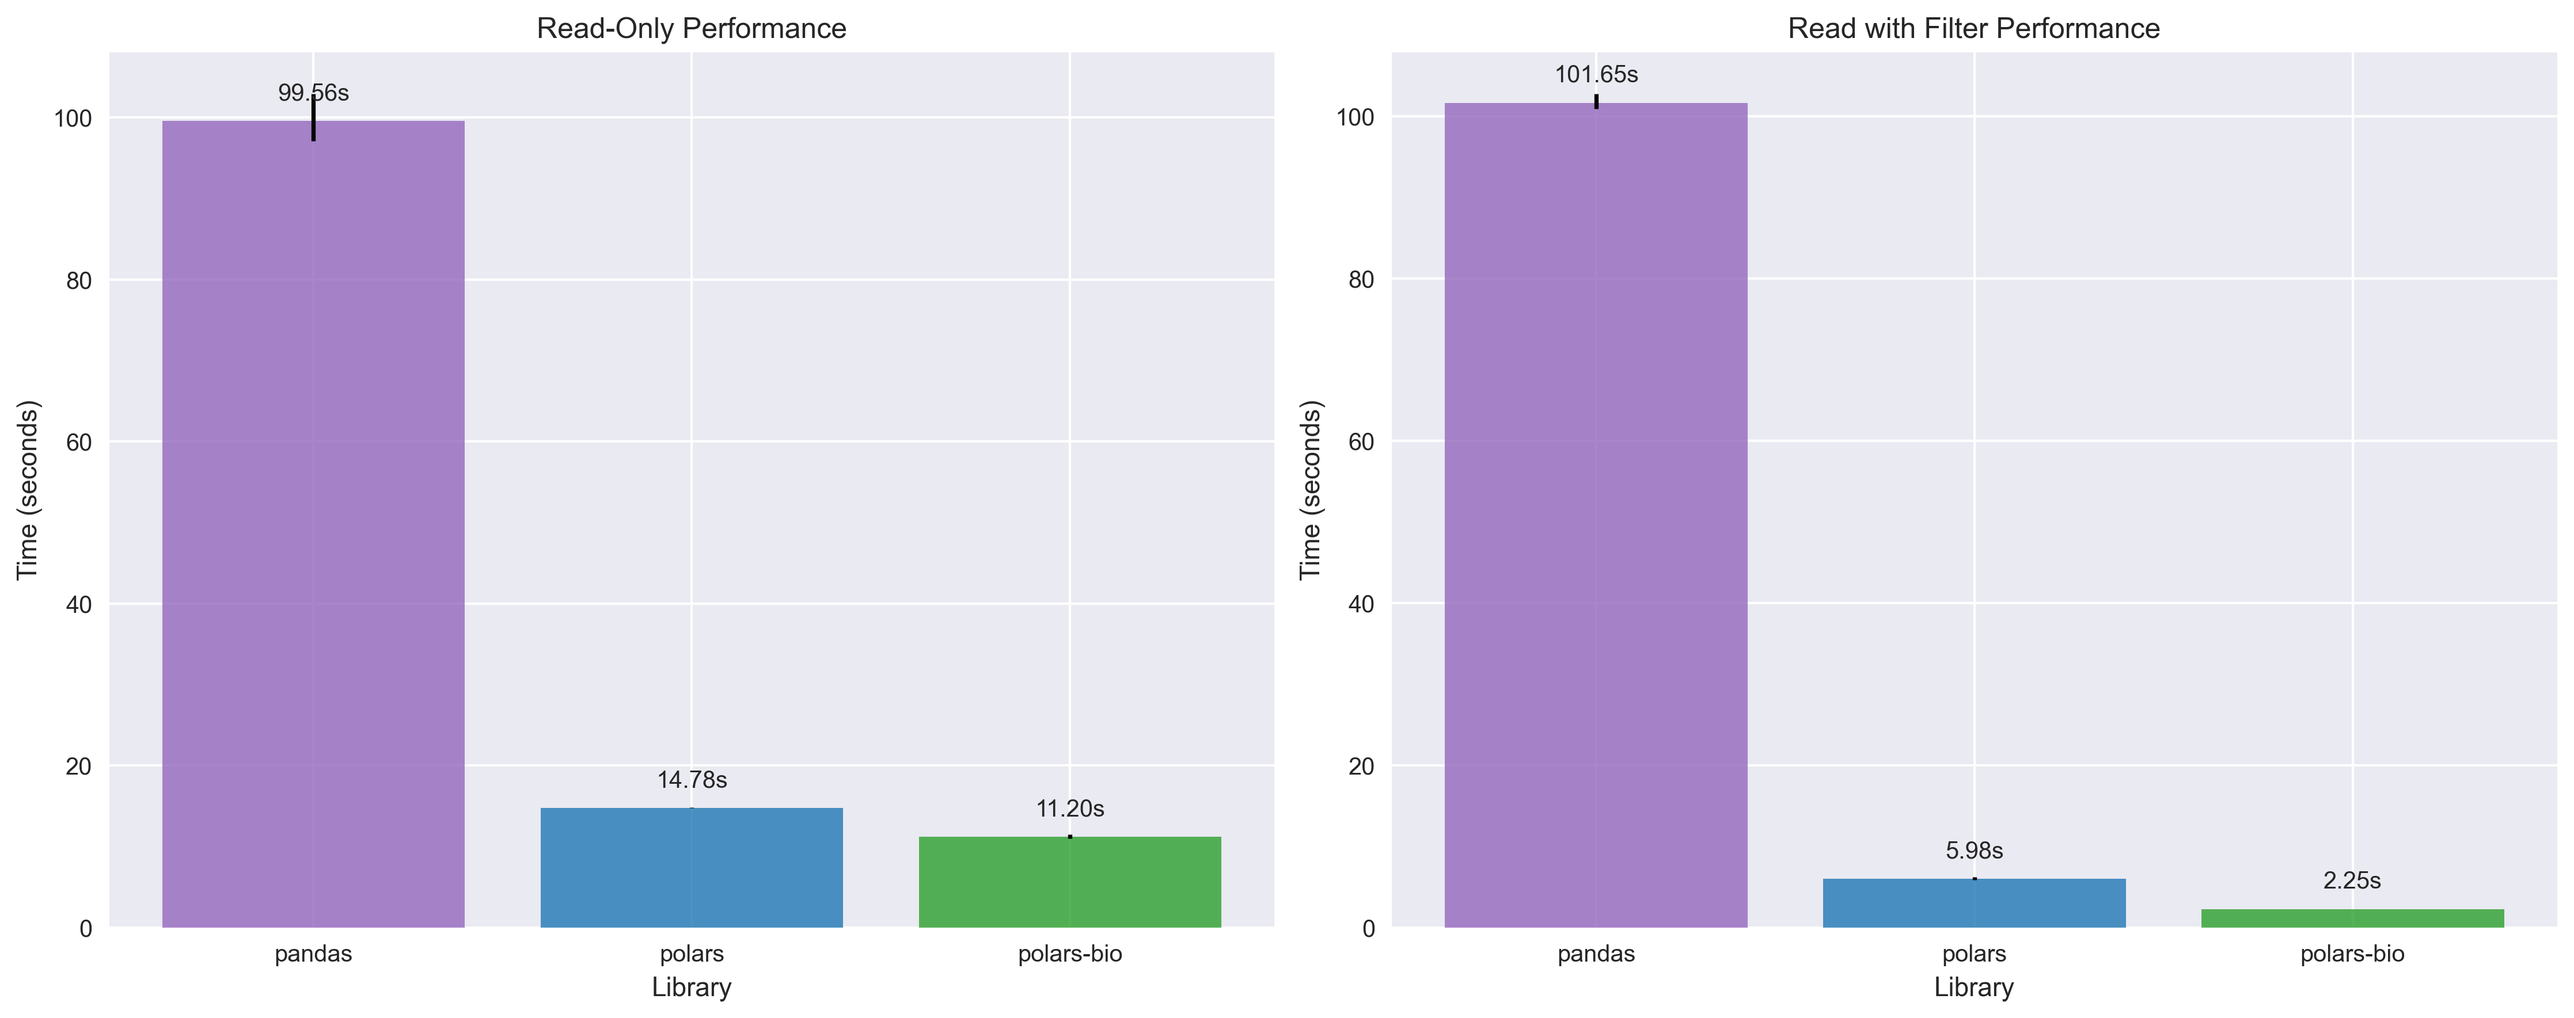
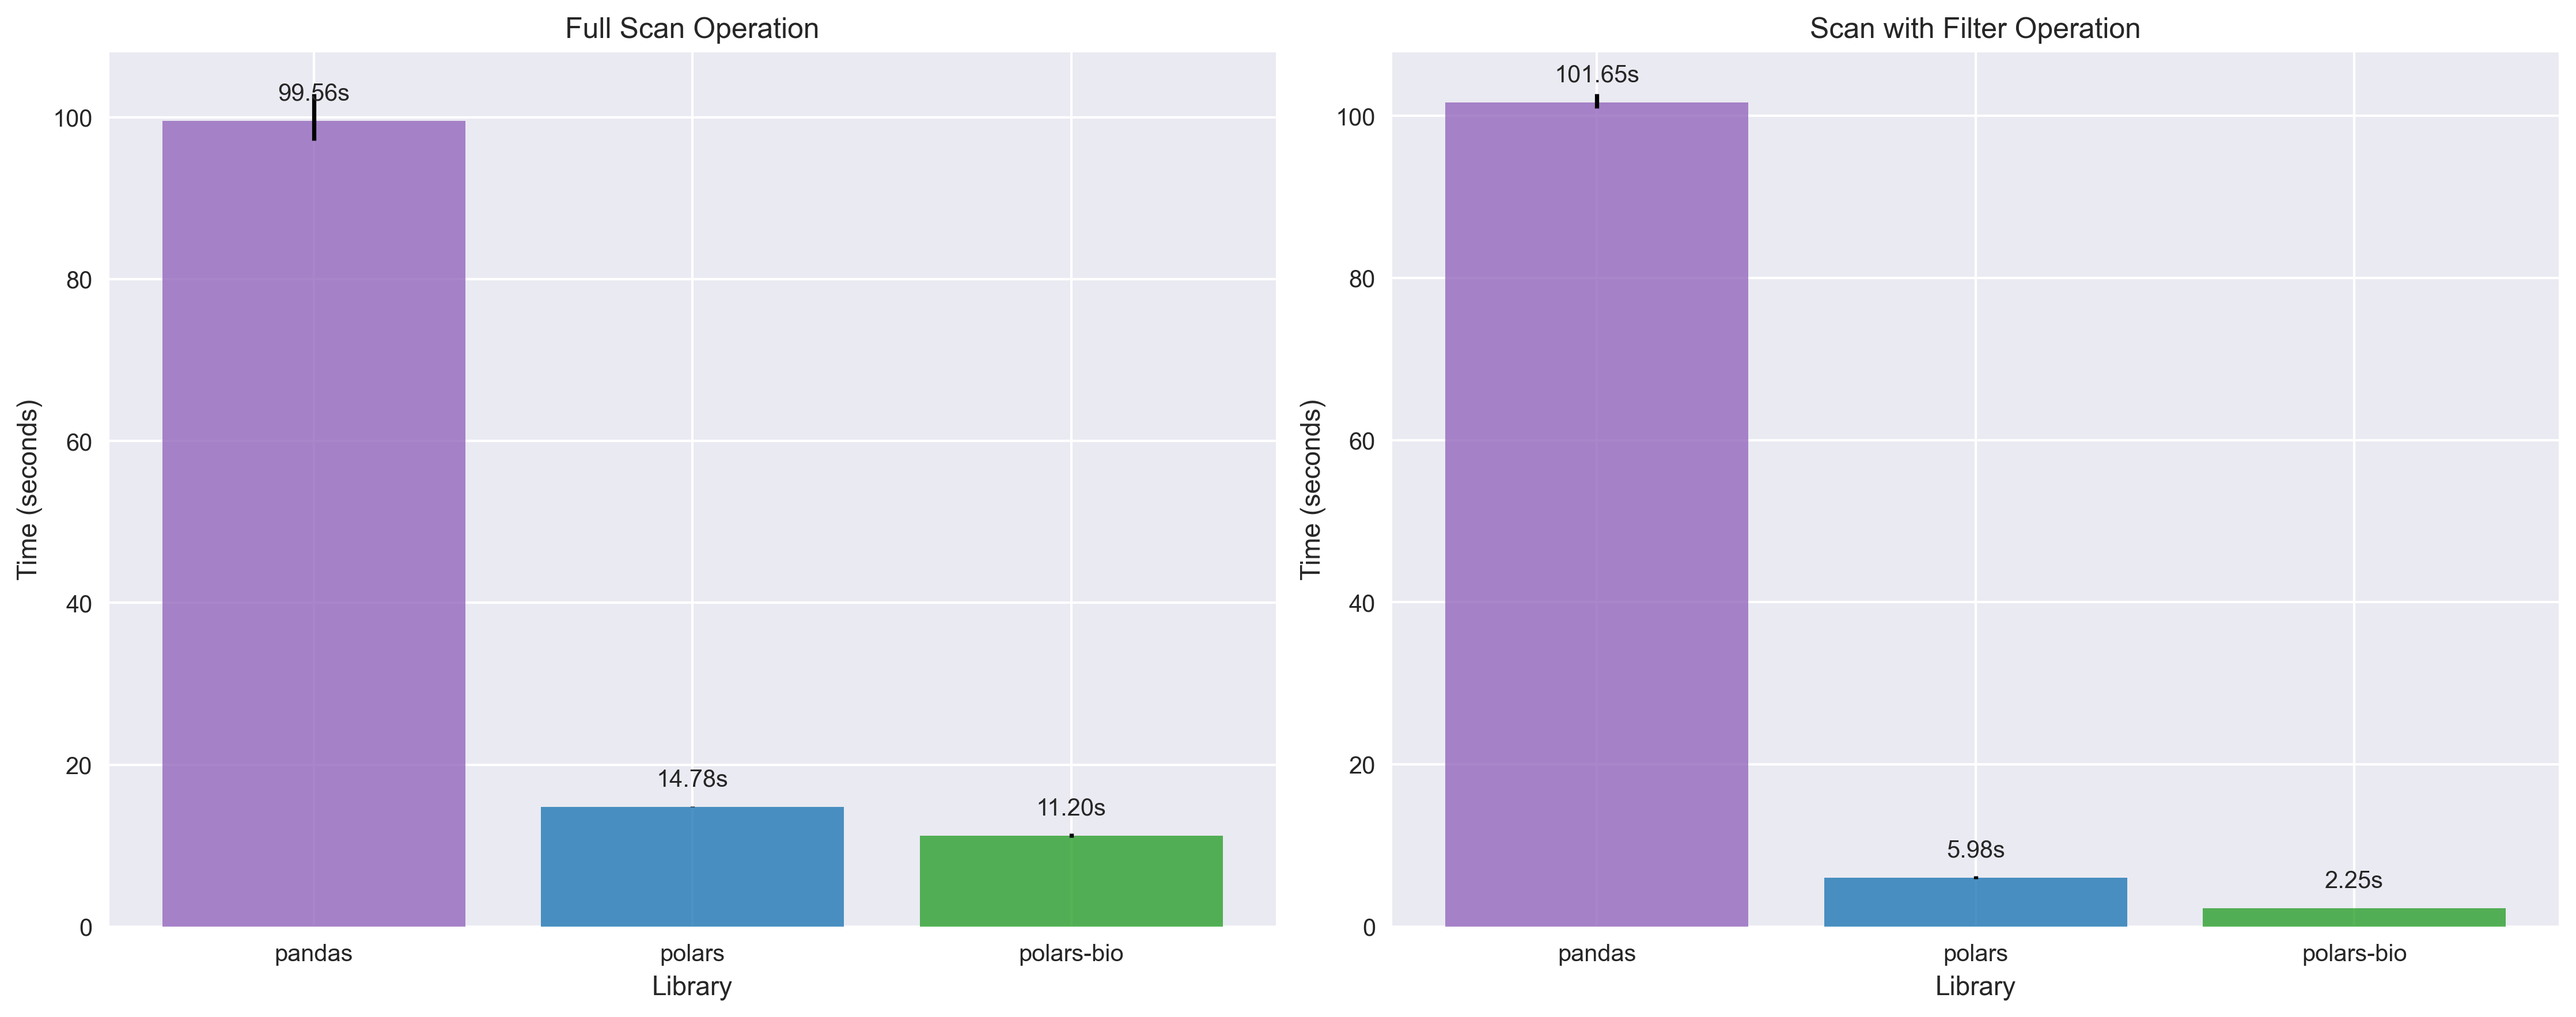
GFF blog post

diff --git a/benchmarks/visualize_results.py b/benchmarks/visualize_results.py
@@ -104,7 +104,7 @@ def plot_general_performance():
             alpha=0.8,
             color=colors,
         )
-        ax1.set_title("Read-Only Performance")
+        ax1.set_title("Full Scan Operation")
         ax1.set_ylabel("Time (seconds)")
         ax1.set_xlabel("Library")
 
@@ -133,7 +133,7 @@ def plot_general_performance():
             alpha=0.8,
             color=colors,
         )
-        ax2.set_title("Read with Filter Performance")
+        ax2.set_title("Scan with Filter Operation")
         ax2.set_ylabel("Time (seconds)")
         ax2.set_xlabel("Library")
 

diff --git a/docs/blog/posts/gff-read-optimizations-2025-09.md b/docs/blog/posts/gff-read-optimizations-2025-09.md
@@ -33,24 +33,62 @@ To evaluate these improvements, we conducted comprehensive benchmarks comparing 
 All benchmarks were performed on a large GFF file (~7.7 million records, [file](https://drive.google.com/file/d/1PsHqKG-gyRJy5-sNzuH3xRntw4Er--Si/view?usp=sharing) and [index](https://drive.google.com/file/d/173RT5Afi2jAh64uCJwNRGHF4ozYU-xzX/view?usp=sharing) needed for parallel reading) with both full scan and filtered query scenarios to demonstrate real-world performance gains.
 
 For pandas and polars reading, we used the following [methods](https://github.com/biodatageeks/polars-bio/blob/master/benchmarks/gff_parsers.py) (thanks to [@urineri](https://github.com/urineri) for the Polars code).
-Since Polars decompresses compressed CSV/TSV files completely in memory as highlighted [here](https://github.com/ghuls/polars_streaming_csv_decompression/blob/main/README.md), we also used `polars_streaming_csv_decompression` a great plugin developed by [@ghuls](https://github.com/ghuls/polars_streaming_csv_decompression) to enable streaming decompression in Polars.
+Since Polars decompresses compressed CSV/TSV files completely in memory as highlighted [here](https://github.com/ghuls/polars_streaming_csv_decompression/blob/main/README.md), we also used `polars_streaming_csv_decompression`, a great plugin developed by [@ghuls](https://github.com/ghuls/polars_streaming_csv_decompression) to enable streaming decompression in Polars.
 
+Test query used for filtered benchmarks (Polars and polars-bio):
+
+```python
+ result = (
+        lf.filter(
+            (pl.col("seqid") == "chrY")
+            & (pl.col("start") < 500000)
+            & (pl.col("end") > 510000)
+        )
+        .select(["seqid", "start", "end", "type"])
+        .collect()
+    )
+```
+
+The above query is very selective and returns only two rows from the entire dataset.
 
 ## Results
 
-## Single-threaded performance
+Complete benchmark code and results are available in the [polars-bio](https://github.com/biodatageeks/polars-bio/tree/master/benchmarks) repository.
+
+### Single-threaded performance
+
+![general_performance.png](figures/gff-read-optimization-2025-09/general_performance.png)
+
+**Key takeaways:**
+
+- **polars-bio** delivers comparable performance to standard **Polars** for full scan operations and both significantly outperform Pandas.
+- In the case of **filtered queries**, we can see further performance improvements with **Polars** and **polars-bio** thanks to predicate and projection pushdown optimizations. **polars-bio** is 2.5x faster than standard Polars.
+
+### Memory usage
+
+![memory_comparison.png](figures/gff-read-optimization-2025-09/memory_comparison.png)
+
+**Key takeaways:**
+
+- **Polars** and **polars-bio** use significantly less memory than **Pandas** for all operations.
+- **polars-bio** and Polars with `polars_streaming_csv_decompression` can use more than 20x less memory than vanilla Polars and more than **two orders of magnitude** less memory than Pandas for operations involving filtering.
 
 
-Key takeaways:
+### Thread scalability
+
+![thread_scalability.png](figures/gff-read-optimization-2025-09/thread_scalability.png)
+
+**Key takeaways:**
+
+- **polars-bio achieves near-linear scaling** up to 8 threads for full scan operations, reaching 9.5x speedup at 16 threads compared to single-threaded performance.
+- **Filtered operations show excellent parallelization** with polars-bio reaching 11x speedup at 16 threads, significantly outperforming other libraries. There is, however, non-negligible overhead due to parallelism at 1 thread (2.25s vs 4.2s, compared to the single-threaded benchmark).
+- **polars-streaming shows diminishing returns** at higher thread counts due to the overhead of spawning decompression program threads (in the [default](https://github.com/pycompression/xopen/blob/main/src/xopen/__init__.py#L182) configuration, this is capped at 4), while polars-bio maintains consistent scaling benefits.
+
+## Summary
+
+The benchmarks demonstrate that polars-bio `0.15.0` delivers significant performance improvements for GFF file processing. These optimizations, combined with near-linear thread scaling and fully streamed parallel reads, make polars-bio an ideal choice for high-performance genomic data analysis workflows.
 
 
+If you haven't tried polars-bio yet, now is a great time to explore its capabilities for efficient genomic data processing with Python! [Join](https://docs.google.com/forms/d/e/1FAIpQLSdxE3admdmAPE_PVSsUvjJAPXuDAKN4VjHLWJWmXGNVqX6mzw/viewform?usp=dialog) our upcoming seminar on *September 15, 2025*, to learn more about polars-bio and its applications in genomics.
+![Polars-bio High-Performance Python DataFrame Operations for Genomics.png](figures/gff-read-optimization-2025-09/Polars-bio%20High-Performance%20Python%20DataFrame%20Operations%20for%20Genomics.png)
 
-
-
-![general_performance.png](figures/gff-read-optimization-2025-09/general_performance.png){.glightbox}
-
-## Memory usage
-![memory_comparison.png](figures/gff-read-optimization-2025-09/memory_comparison.png){.glightbox}
-
-## Thread scalability
-![thread_scalability.png](figures/gff-read-optimization-2025-09/thread_scalability.png){.glightbox}

diff --git a/docs/blog/posts/benchmark-operations-2025-09.md b/docs/blog/posts/benchmark-operations-2025-09.md
@@ -61,7 +61,7 @@ For comparability, we use the same [AIList](/polars-bio/supplement/#real-dataset
 ## Results
 
 ### polars-bio interval data structures performance comparison
-![combined_multi_testcase.png](figures/benchmark-sep-2025/combined_multi_testcase.png){.glightbox}
+![combined_multi_testcase.png](figures/benchmark-sep-2025/combined_multi_testcase.png)
 
 Key takeaways:
 
@@ -71,9 +71,9 @@ Key takeaways:
 
 
 ### All operations comparison
-![all_operations_walltime_comparison.png](figures/benchmark-sep-2025/all_operations_walltime_comparison.png){.glightbox}
+![all_operations_walltime_comparison.png](figures/benchmark-sep-2025/all_operations_walltime_comparison.png)
 
-![bench-20250-all_operations_speedup_comparison.png](figures/benchmark-sep-2025/bench-20250-all_operations_speedup_comparison.png){.glightbox}
+![bench-20250-all_operations_speedup_comparison.png](figures/benchmark-sep-2025/bench-20250-all_operations_speedup_comparison.png)
 
 Key takeaways:
 
